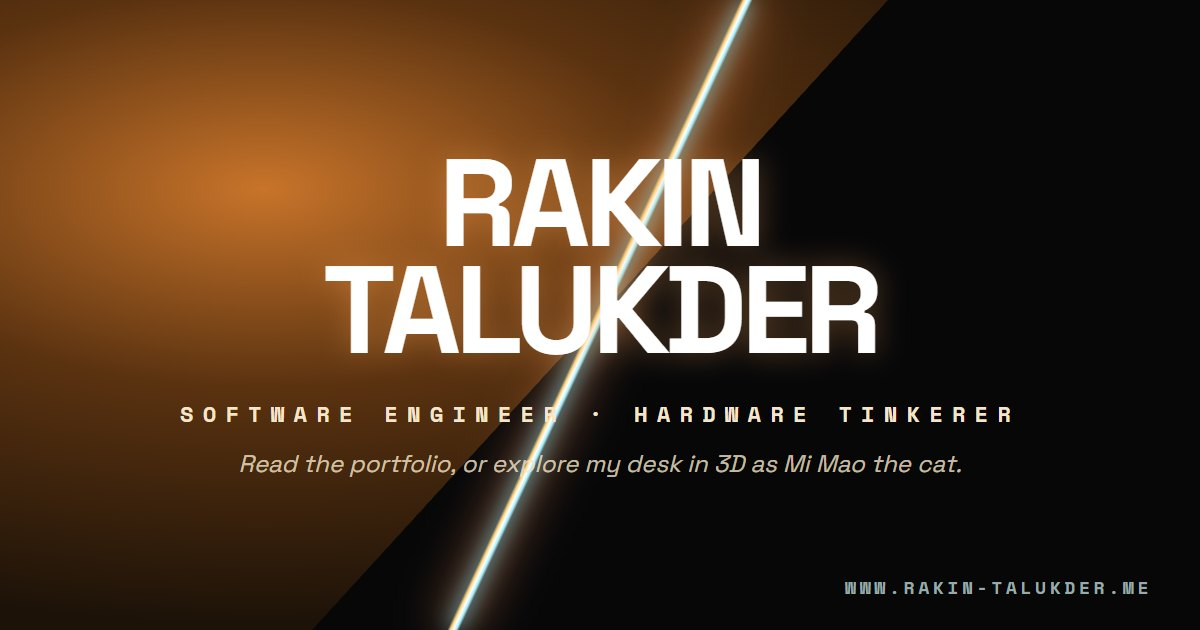
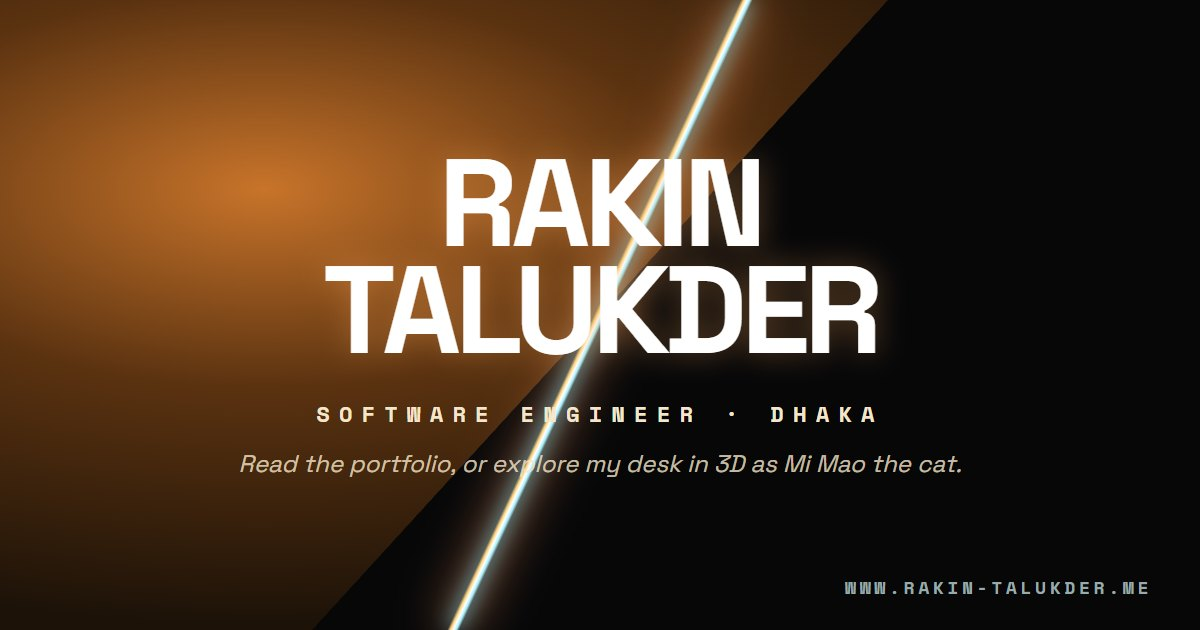
SEO: just "Software Engineer" (drop "hardware tinkerer")
Title, descriptions, social tags, résumé description, README and the share
card (now "SOFTWARE ENGINEER · DHAKA"; image URL versioned so preview caches
refetch it).

Changed region(s): [[0.5858, 0.6333, 0.8633, 0.6937], [0.1542, 0.6333, 0.4317, 0.6937], [0.4625, 0.6333, 0.555, 0.6937]]

diff --git a/v2/index.html b/v2/index.html
@@ -3,8 +3,8 @@
   <head>
     <meta charset="UTF-8" />
     <meta name="viewport" content="width=device-width, initial-scale=1.0" />
-    <title>Rakin Talukder · Software Engineer &amp; Hardware Tinkerer</title>
-    <meta name="description" content="Rakin Talukder, a software engineer and hardware tinkerer from Dhaka. Explore his desk from the point of view of his cat, Mi Mao: apps, games, computer vision, ESP32 builds and a self-hosted home server." />
+    <title>Rakin Talukder · Software Engineer</title>
+    <meta name="description" content="Rakin Talukder, a software engineer from Dhaka. Explore his desk from the point of view of his cat, Mi Mao: apps, games, computer vision, ESP32 builds and a self-hosted home server." />
     <meta name="theme-color" content="#FFFFFF" />
     <link rel="canonical" href="https://www.rakin-talukder.me/" />
     <link rel="icon" type="image/svg+xml" href="/logo.svg" />
@@ -12,18 +12,18 @@
     <link rel="icon" type="image/png" sizes="192x192" href="/icon-192.png" />
     <link rel="apple-touch-icon" sizes="180x180" href="/apple-touch-icon.png" />
     <meta property="og:type" content="website" />
-    <meta property="og:title" content="Rakin Talukder · Software engineer & hardware tinkerer" />
-    <meta property="og:description" content="Software engineer and hardware tinkerer from Dhaka. Read the portfolio, or explore the desk in 3D as Mi Mao the cat." />
+    <meta property="og:title" content="Rakin Talukder · Software Engineer" />
+    <meta property="og:description" content="Software engineer from Dhaka. Read the portfolio, or explore the desk in 3D as Mi Mao the cat." />
     <meta property="og:url" content="https://www.rakin-talukder.me/" />
     <meta property="og:site_name" content="Rakin Talukder" />
-    <meta property="og:image" content="https://www.rakin-talukder.me/og.jpg" />
+    <meta property="og:image" content="https://www.rakin-talukder.me/og.jpg?v=2" />
     <meta property="og:image:width" content="1200" />
     <meta property="og:image:height" content="630" />
-    <meta property="og:image:alt" content="Rakin Talukder: software engineer and hardware tinkerer" />
+    <meta property="og:image:alt" content="Rakin Talukder, software engineer" />
     <meta name="twitter:card" content="summary_large_image" />
-    <meta name="twitter:title" content="Rakin Talukder · Software engineer &amp; hardware tinkerer" />
-    <meta name="twitter:description" content="Software engineer and hardware tinkerer from Dhaka. Read the portfolio, or explore the desk in 3D as Mi Mao the cat." />
-    <meta name="twitter:image" content="https://www.rakin-talukder.me/og.jpg" />
+    <meta name="twitter:title" content="Rakin Talukder · Software Engineer" />
+    <meta name="twitter:description" content="Software engineer from Dhaka. Read the portfolio, or explore the desk in 3D as Mi Mao the cat." />
+    <meta name="twitter:image" content="https://www.rakin-talukder.me/og.jpg?v=2" />
     <meta name="twitter:creator" content="@rakinthegreat" />
     <script type="application/ld+json">
       {

diff --git a/v2/resume.html b/v2/resume.html
@@ -4,7 +4,7 @@
     <meta charset="UTF-8" />
     <meta name="viewport" content="width=device-width, initial-scale=1.0" />
     <title>Résumé · Md Rakinuzzaman Talukder</title>
-    <meta name="description" content="Résumé of Md Rakinuzzaman Talukder, software engineer and hardware tinkerer from Dhaka." />
+    <meta name="description" content="Résumé of Md Rakinuzzaman Talukder, software engineer from Dhaka." />
     <link rel="canonical" href="https://www.rakin-talukder.me/resume" />
     <link rel="icon" type="image/svg+xml" href="/logo.svg" />
     <link rel="icon" type="image/png" sizes="48x48" href="/favicon-48.png" />

diff --git a/v2/README.md b/v2/README.md
@@ -1,6 +1,6 @@
 # Portfolio v2: On Rakin's Desk
 
-A cat's-eye tour of a tinkerer's desk in Dhaka. Scroll through it, click things, or press **E** and play as the cat.
+A cat's-eye tour of a software engineer's desk in Dhaka. Scroll through it, click things, or press **E** and play as the cat.
 The Flutter site in the repo root is v1 and is untouched; this folder is a separate Vite project.
 
 ## Run
